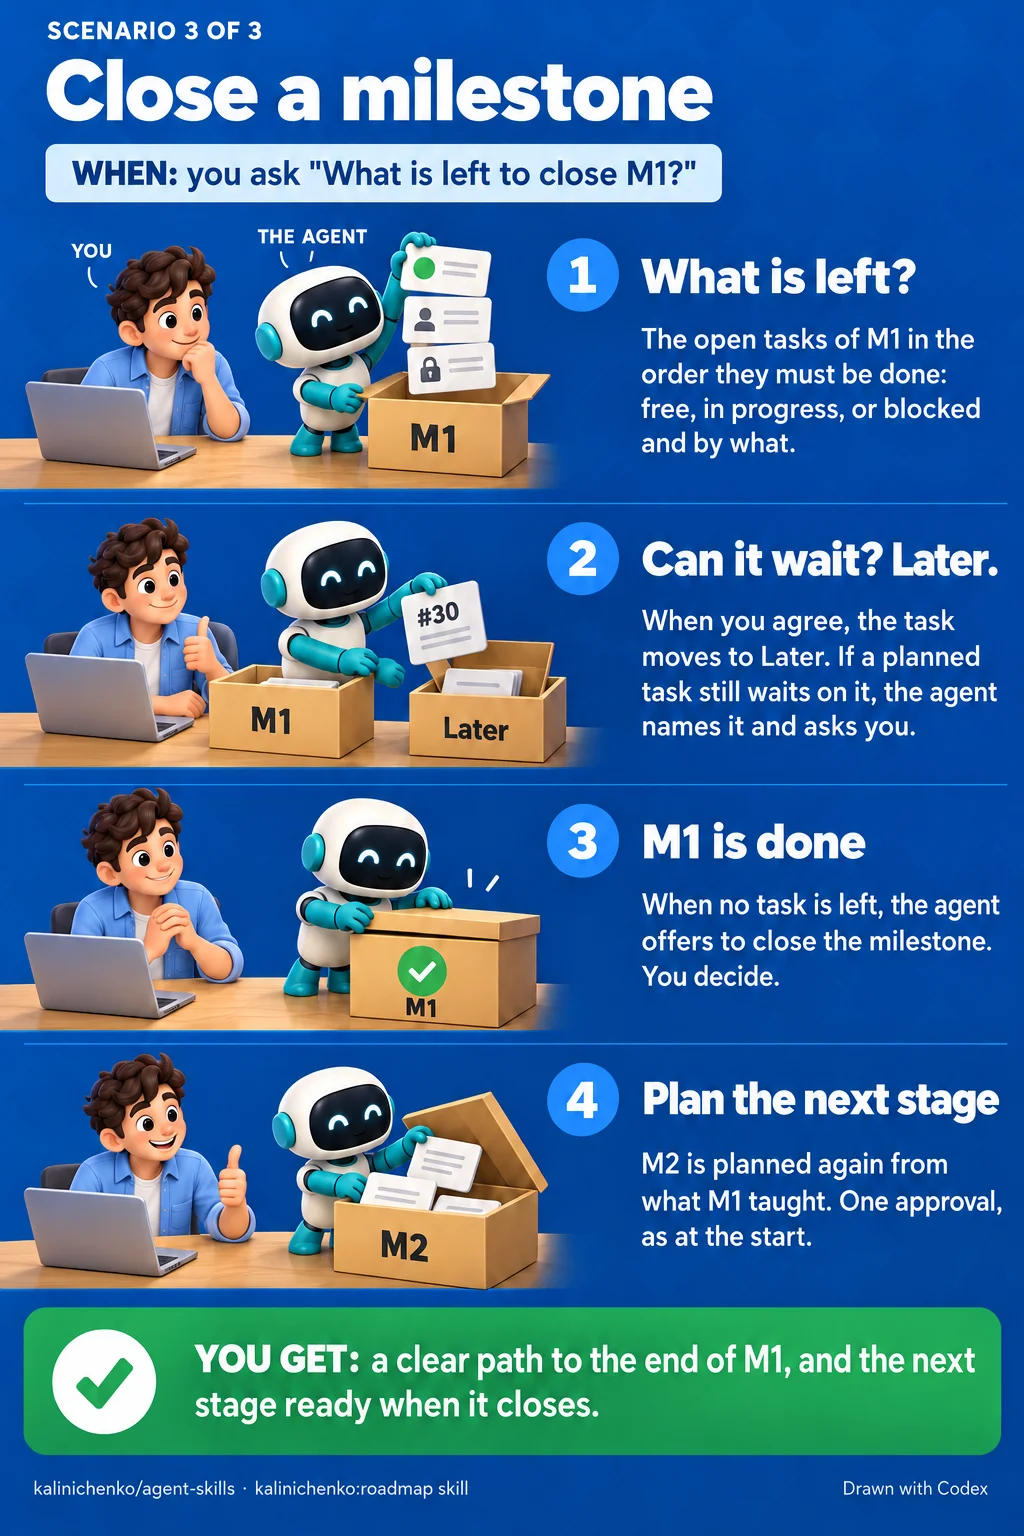
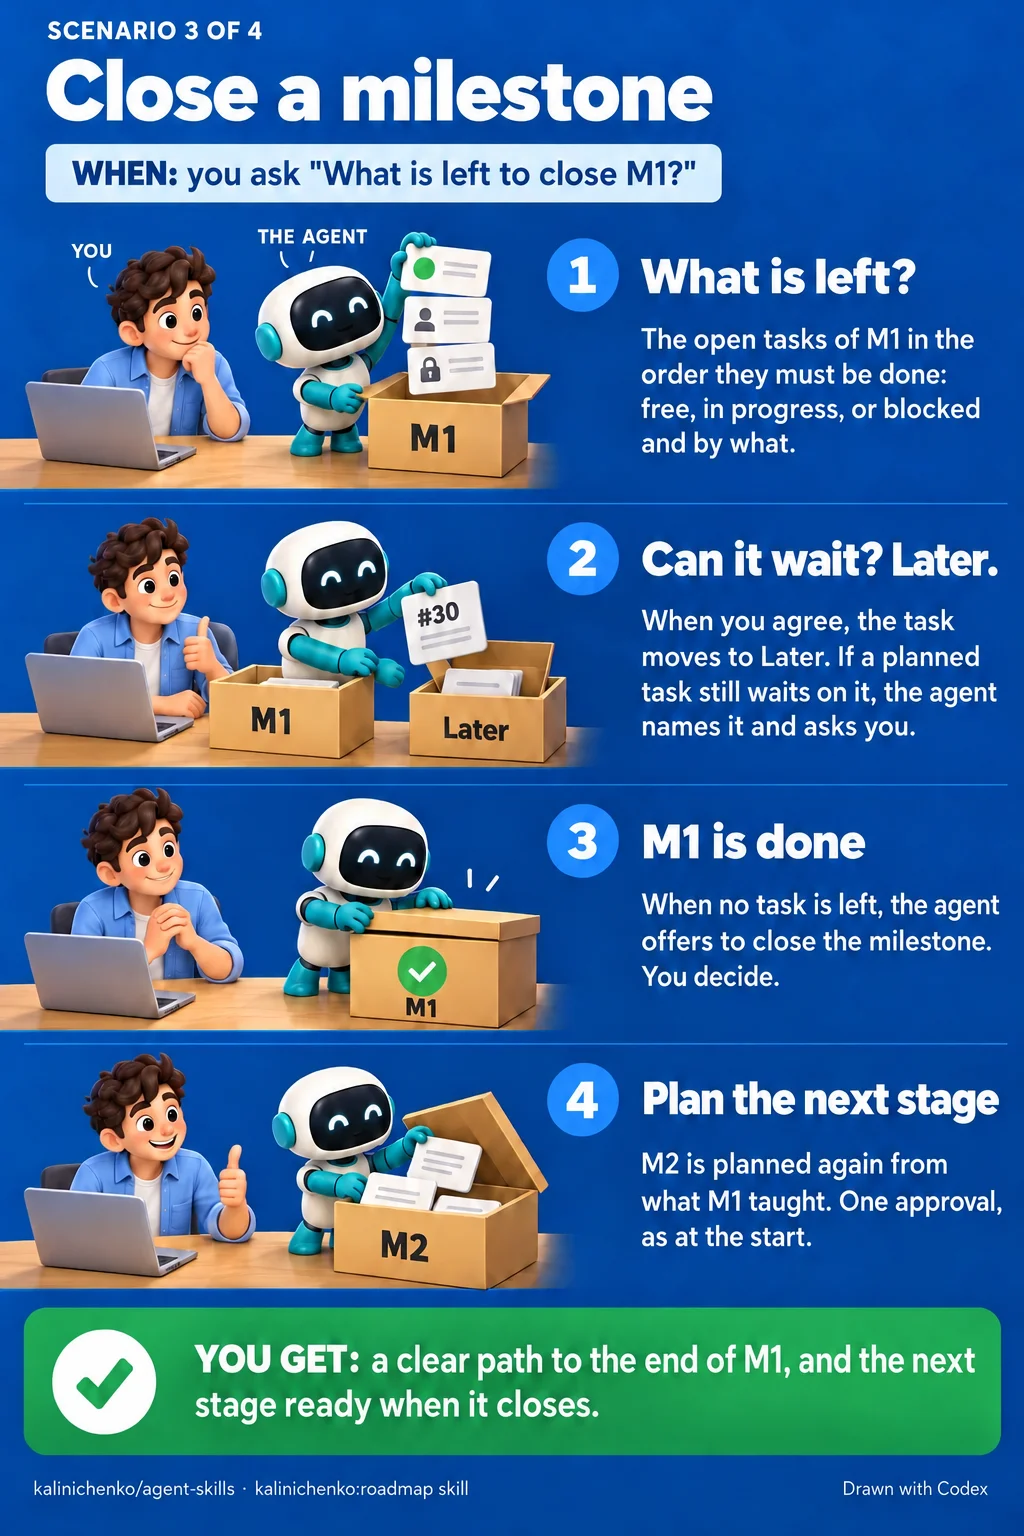
docs(roadmap): draw the triage scenario picture, and number the scenarios out of four
- Add the 04-triage image block to docs/roadmap/brief.md and draw it
- Change the labels of 01-plan, 02-next and 03-close to "OF 4" with one targeted edit each
- Show the triage picture under its own heading in skills/roadmap/README.md

diff --git a/docs/roadmap/brief.md b/docs/roadmap/brief.md
@@ -30,7 +30,7 @@ Bottom line, small: "Also: a task that can wait moves to Later, and a project bo
 
 <image file="01-plan.png">
 Canvas: portrait, the largest portrait size the tool offers (at least 1024x1536).
-Header: label "SCENARIO 1 OF 3", title "Plan the roadmap".
+Header: label "SCENARIO 1 OF 4", title "Plan the roadmap".
 Trigger box: "WHEN: you ask the agent to plan the roadmap."
 1. "Read the project" — THE AGENT reads a stack of blank documents on the desk; YOU watch. Caption: "The agent reads your docs, the README and the open issues. Then it asks about what they leave open."
 2. "Stages, tasks and links" — THE AGENT shows YOU a large sheet with three columns labelled "M1", "M2" and "Later", blank tickets in each, and two tickets joined by a short chain. Caption: "Each stage ends in a result you can show. Each task fits one PR. A task that waits on another is linked to it."
@@ -41,7 +41,7 @@ Result box: "YOU GET: a plan you agreed to, kept in GitHub where it cannot go st
 
 <image file="02-next.png">
 Canvas: portrait, the largest portrait size the tool offers (at least 1024x1536).
-Header: label "SCENARIO 2 OF 3", title "Pick the next task".
+Header: label "SCENARIO 2 OF 4", title "Pick the next task".
 Trigger box: "WHEN: you ask \"What can I take now?\" or what can run in parallel." (keep the double quotation marks around the question)
 1. "Only free tasks" — THE AGENT sorts blank tickets: tickets with a small padlock or a name tag go to one side, plain ones stay in front. Caption: "Not assigned, no open PR, not blocked by an open issue. Other people's work is never offered."
 2. "Main path first" — THE AGENT lines up blank tickets in a row, the first one the largest. Caption: "The current milestone comes first. Then the tasks that more issues wait on, then the oldest."
@@ -52,13 +52,24 @@ Result box: "YOU GET: the right task to take now, and the tasks that can run bes
 
 <image file="03-close.png">
 Canvas: portrait, the largest portrait size the tool offers (at least 1024x1536).
-Header: label "SCENARIO 3 OF 3", title "Close a milestone".
+Header: label "SCENARIO 3 OF 4", title "Close a milestone".
 Trigger box: "WHEN: you ask \"What is left to close M1?\"" (keep the double quotation marks around the question)
 1. "What is left?" — THE AGENT takes a short column of blank tickets out of box "M1": one with a green dot, one with a name tag, one with a small padlock. Caption: "The open tasks of M1 in the order they must be done: free, in progress, or blocked and by what."
 2. "Can it wait? Later." — YOU nod; THE AGENT moves ticket "#30" from box "M1" into box "Later". Caption: "When you agree, the task moves to Later. If a planned task still waits on it, the agent names it and asks you."
 3. "M1 is done" — box "M1" has a large green check; THE AGENT closes its lid. Caption: "When no task is left, the agent offers to close the milestone. You decide."
 4. "Plan the next stage" — THE AGENT opens box "M2" and puts new blank tickets in it; YOU give a thumbs-up. Caption: "M2 is planned again from what M1 taught. One approval, as at the start."
 Result box: "YOU GET: a clear path to the end of M1, and the next stage ready when it closes."
+</image>
+
+<image file="04-triage.png">
+Canvas: portrait, the largest portrait size the tool offers (at least 1024x1536).
+Header: label "SCENARIO 4 OF 4", title "Triage new issues".
+Trigger box: "WHEN: you ask the agent to triage the new issues."
+1. "Which issues are new?" — THE AGENT takes three tickets, "#36", "#37" and "#38", out of a tray labelled "New"; the tickets have no tags; YOU watch. Caption: "Open issues with no label or no milestone. Nobody has checked their reports yet."
+2. "Duplicates close first" — THE AGENT clips ticket "#37" behind ticket "#36" and puts a grey stamp with no text on "#37". Caption: "#37 is the same report as #36. It closes, and what it adds is copied to #36."
+3. "A verdict for each" — THE AGENT looks at ticket "#36" through a large magnifying glass; beside it, ticket "#38" has a small speech bubble with "?"; YOU watch from the laptop. Caption: "The agent reproduces each report or finds it in the code. A false one closes; an unclear one gets a question."
+4. "Label and milestone" — YOU give a thumbs-up; THE AGENT puts ticket "#36", with a small tag "bug", into box "M1"; ticket "#38" waits beside the box. Caption: "Each issue gets a label, and its importance picks the milestone. One approval, then it all goes into GitHub."
+Result box: "YOU GET: every new issue checked, labelled and in the milestone its importance asks for."
 </image>
 
 <verification_loop>

diff --git a/skills/roadmap/README.md b/skills/roadmap/README.md
@@ -59,6 +59,10 @@ run in parallel, and what is left to close a milestone.
 
 ![Close a milestone: you get a clear path to the end of M1, and the next stage ready when it closes](../../docs/roadmap/03-close.webp)
 
+### Triage new issues
+
+![Triage new issues: you get every new issue checked, labelled and in the milestone its importance asks for](../../docs/roadmap/04-triage.webp)
+
 ## How it works
 
 Scripts in `scripts/` read the plan through the GitHub API and rank the free
